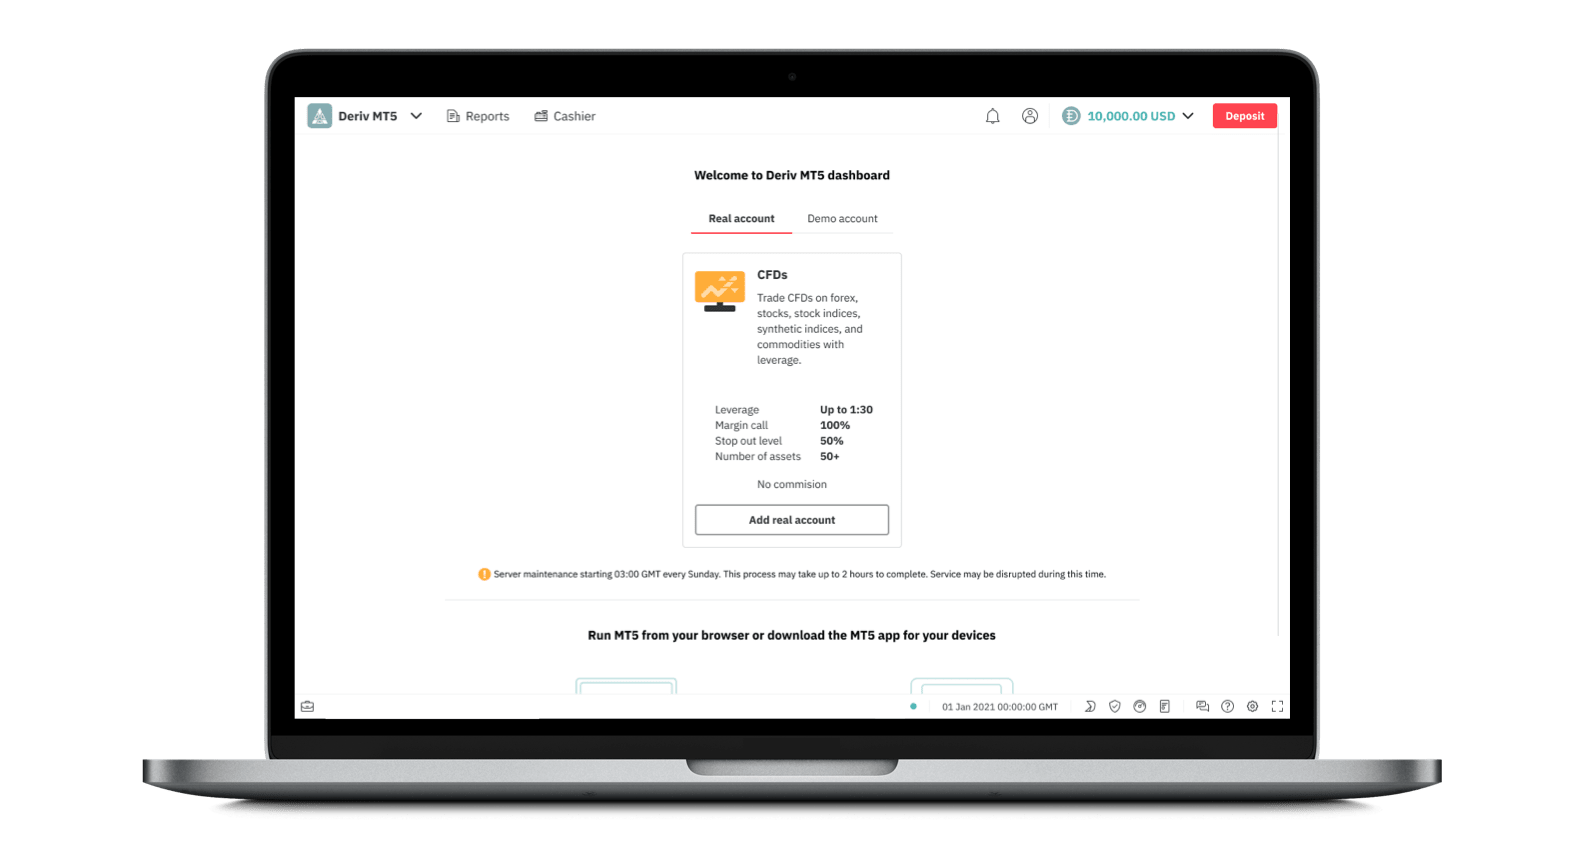
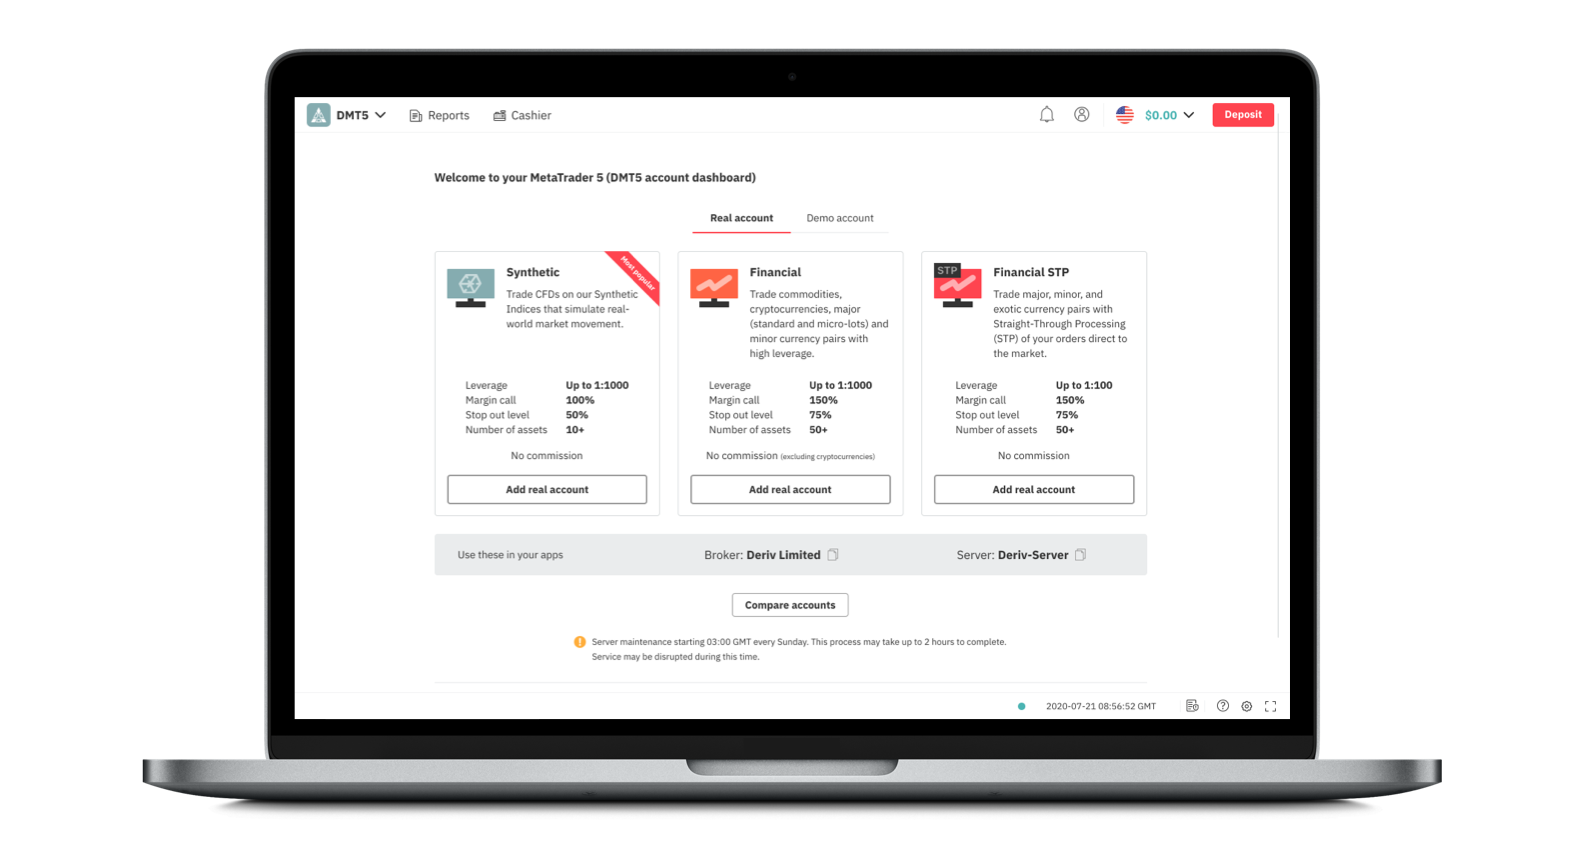
added wrong account image and crash boom hotfixes

diff --git a/src/pages/markets/components/sections/_market_instruments.js b/src/pages/markets/components/sections/_market_instruments.js
@@ -9,77 +9,93 @@ import {
     Row,
     Title,
 } from '../../static/style/_markets-style'
+import { useBrowserResize } from '../../../../components/hooks/use-browser-resize'
 
-const MarketInstruments = ({ market_content }) => (
-    <MarketsWrapper>
-        {market_content.content?.map((content, index) =>
-            market_content.has_global_accordion || content.details ? (
-                <MarketsAccordion
-                    key={index}
-                    renderTitle={() => (
-                        <Row is_accordion_row={true}>
-                            {market_content.template == 2 ? (
-                                <>
-                                    <Col full_width={true}>
-                                        <Title>{content.title}</Title>
-                                    </Col>
-                                    <LatestMarketsList
-                                        has_right_border={true}
-                                        col={content.col}
-                                        tablet_col={content.tablet_col}
-                                        mobile_col={content.mobile_col}
-                                        padding={content.padding}
-                                        flex={content.flex}
-                                        gap={content.gap}
-                                        gap_mobile={content.gap_mobile}
-                                    >
-                                        {content.component}
-                                    </LatestMarketsList>
-                                </>
+const MarketInstruments = ({ market_content }) => {
+    const [is_mobile] = useBrowserResize()
+    return (
+        <MarketsWrapper>
+            {market_content.content?.map((content, index) =>
+                market_content.has_global_accordion || content.details ? (
+                    <MarketsAccordion
+                        key={index}
+                        renderTitle={() => (
+                            <Row is_accordion_row={true}>
+                                {market_content.template == 2 ? (
+                                    <>
+                                        <Col full_width={true}>
+                                            {is_mobile && content.mobile_title ? (
+                                                <Title>{content.mobile_title}</Title>
+                                            ) : (
+                                                <Title>{content.title}</Title>
+                                            )}
+                                        </Col>
+                                        <LatestMarketsList
+                                            has_right_border={true}
+                                            col={content.col}
+                                            tablet_col={content.tablet_col}
+                                            mobile_col={content.mobile_col}
+                                            padding={content.padding}
+                                            flex={content.flex}
+                                            gap={content.gap}
+                                            gap_mobile={content.gap_mobile}
+                                        >
+                                            {content.component}
+                                        </LatestMarketsList>
+                                    </>
+                                ) : (
+                                    <>
+                                        <Col>
+                                            {is_mobile && content.mobile_title ? (
+                                                <Title>{content.mobile_title}</Title>
+                                            ) : (
+                                                <Title>{content.title}</Title>
+                                            )}
+                                        </Col>
+                                        <MarketsList has_right_border={true}>
+                                            {content.component}
+                                        </MarketsList>
+                                    </>
+                                )}
+                            </Row>
+                        )}
+                        renderDetails={content.details}
+                        custom_index={content.custom_index}
+                    />
+                ) : (
+                    <Row key={index} mobile_template={content.mobile_template}>
+                        <Col mobile_template={content.mobile_template}>
+                            {is_mobile && content.mobile_title ? (
+                                <Title>{content.mobile_title}</Title>
                             ) : (
-                                <>
-                                    <Col>
-                                        <Title>{content.title}</Title>
-                                    </Col>
-                                    <MarketsList has_right_border={true}>
-                                        {content.component}
-                                    </MarketsList>
-                                </>
+                                <Title>{content.title}</Title>
                             )}
-                        </Row>
-                    )}
-                    renderDetails={content.details}
-                    custom_index={content.custom_index}
-                />
-            ) : (
-                <Row key={index} mobile_template={content.mobile_template}>
-                    <Col mobile_template={content.mobile_template}>
-                        <Title>{content.title}</Title>
-                    </Col>
-                    {market_content.template == 2 ? (
-                        <LatestMarketsList
-                            col={content.col}
-                            tablet_col={content.tablet_col}
-                            mobile_col={content.mobile_col}
-                            padding={content.padding}
-                            flex={content.flex}
-                            gap={content.gap}
-                            mobile_template={content.mobile_template}
-                            gap_mobile={content.gap_mobile}
-                            {...market_content.markets_list}
-                        >
-                            {content.component}
-                        </LatestMarketsList>
-                    ) : (
-                        <MarketsList {...market_content.markets_list}>
-                            {content.component}
-                        </MarketsList>
-                    )}
-                </Row>
-            ),
-        )}
-    </MarketsWrapper>
-)
+                        </Col>
+                        {market_content.template == 2 ? (
+                            <LatestMarketsList
+                                col={content.col}
+                                tablet_col={content.tablet_col}
+                                mobile_col={content.mobile_col}
+                                padding={content.padding}
+                                flex={content.flex}
+                                gap={content.gap}
+                                mobile_template={content.mobile_template}
+                                gap_mobile={content.gap_mobile}
+                                {...market_content.markets_list}
+                            >
+                                {content.component}
+                            </LatestMarketsList>
+                        ) : (
+                            <MarketsList {...market_content.markets_list}>
+                                {content.component}
+                            </MarketsList>
+                        )}
+                    </Row>
+                ),
+            )}
+        </MarketsWrapper>
+    )
+}
 
 MarketInstruments.propTypes = {
     market_content: PropTypes.object,

diff --git a/src/pages/dmt5/_start-trader.js b/src/pages/dmt5/_start-trader.js
@@ -24,6 +24,12 @@ const query = graphql`
         demo_step2_mobile: file(relativePath: { eq: "dmt5/dmt5-demo-step2-mobile.png" }) {
             ...fadeIn
         }
+        demo_step2_eu: file(relativePath: { eq: "dmt5/dmt5-demo-step2-eu.png" }) {
+            ...fadeIn
+        }
+        demo_step2_mobile_eu: file(relativePath: { eq: "dmt5/dmt5-demo-step2-mobile-eu.png" }) {
+            ...fadeIn
+        }
         demo_step3: file(relativePath: { eq: "dmt5/dmt5-demo-step3.png" }) {
             ...fadeIn
         }
@@ -46,6 +52,12 @@ const query = graphql`
             ...fadeIn
         }
         real_step3_mobile: file(relativePath: { eq: "dmt5/dmt5-real-step3-mobile.png" }) {
+            ...fadeIn
+        }
+        real_step3_eu: file(relativePath: { eq: "dmt5/dmt5-real-step3-eu.png" }) {
+            ...fadeIn
+        }
+        real_step3_mobile_eu: file(relativePath: { eq: "dmt5/dmt5-real-step3-mobile-eu.png" }) {
             ...fadeIn
         }
         real_step4: file(relativePath: { eq: "dmt5/dmt5-real-step4.png" }) {
@@ -223,14 +235,29 @@ const StartTrader = () => {
                         <SideTab.Panel
                             label=""
                             description={
-                                <Localize translate_text="Add a Deriv MT5 demo account and choose what you want to trade." />
+                                is_eu_country ? (
+                                    <Localize translate_text="Add a CFDs demo account and choose what you want to trade." />
+                                ) : (
+                                    <Localize translate_text="Add a Deriv MT5 demo account and choose what you want to trade." />
+                                )
                             }
                         >
                             <ImageWrapper>
-                                <QueryImage
-                                    data={data[is_mobile ? 'demo_step2_mobile' : 'demo_step2']}
-                                    alt="demo_step2"
-                                />
+                                {is_eu_country ? (
+                                    <QueryImage
+                                        data={
+                                            data[
+                                                is_mobile ? 'demo_step2_mobile_eu' : 'demo_step2_eu'
+                                            ]
+                                        }
+                                        alt="demo_step2_eu"
+                                    />
+                                ) : (
+                                    <QueryImage
+                                        data={data[is_mobile ? 'demo_step2_mobile' : 'demo_step2']}
+                                        alt="demo_step2"
+                                    />
+                                )}
                             </ImageWrapper>
                         </SideTab.Panel>
                         <SideTab.Panel
@@ -296,15 +323,26 @@ const StartTrader = () => {
                                 is_eu_country ? (
                                     <Localize translate_text="Create a CFDs real account based on your trade preference." />
                                 ) : (
-                                    <Localize translate_text="Create a DMT5 real money account based on your trade preference." />
+                                    <Localize translate_text="Create a Deriv MT5 real money account based on your trade preference." />
                                 )
                             }
                         >
                             <ImageWrapper>
-                                <QueryImage
-                                    data={data[is_mobile ? 'real_step3_mobile' : 'real_step3']}
-                                    alt="real_step3"
-                                />
+                                {is_eu_country ? (
+                                    <QueryImage
+                                        data={
+                                            data[
+                                                is_mobile ? 'real_step3_mobile_eu' : 'real_step3_eu'
+                                            ]
+                                        }
+                                        alt="real_step3"
+                                    />
+                                ) : (
+                                    <QueryImage
+                                        data={data[is_mobile ? 'real_step3_mobile' : 'real_step3']}
+                                        alt="real_step3"
+                                    />
+                                )}
                             </ImageWrapper>
                         </SideTab.Panel>
                         <SideTab.Panel

diff --git a/src/components/hooks/use-browser-resize.js b/src/components/hooks/use-browser-resize.js
@@ -1,0 +1,26 @@
+import { useState, useEffect } from 'react'
+import { isBrowser } from 'common/utility'
+import { size } from 'themes/device'
+
+export const useBrowserResize = () => {
+    const [is_mobile, setMobile] = useState(false)
+    const [width, setWidth] = useState(isBrowser() ? window.innerWidth : 0)
+
+    useEffect(() => {
+        if (!isBrowser()) return false
+        const handleResize = () => setWidth(window.innerWidth)
+        handleResizeWindow()
+        window.addEventListener('resize', handleResize)
+
+        return () => {
+            window.removeEventListener('resize', handleResize)
+            handleResizeWindow()
+        }
+    })
+
+    const handleResizeWindow = () => {
+        setMobile(isBrowser() ? !!(width <= size.tablet) : false)
+    }
+
+    return [is_mobile]
+}

diff --git a/src/pages/markets/static/content/_multipliers.js b/src/pages/markets/static/content/_multipliers.js
@@ -49,6 +49,9 @@ export const synthetic_multiplier = {
         },
         {
             title: <Localize translate_text="Crash/Boom" />,
+            mobile_title: (
+                <Localize translate_text="Crash/<0></0>Boom" components={[<br key={0} />]} />
+            ),
             component: <CrashBoom />,
             details: CrashBoomDetails,
         },
@@ -77,6 +80,9 @@ export const synthetic_multiplier_eu = {
         },
         {
             title: <Localize translate_text="Crash/Boom" />,
+            mobile_title: (
+                <Localize translate_text="Crash/<0></0>Boom" components={[<br key={0} />]} />
+            ),
             component: <CrashBoomEU />,
             details: CrashBoomDetailsEU,
         },

diff --git a/src/pages/markets/static/content/_cfds.js b/src/pages/markets/static/content/_cfds.js
@@ -87,6 +87,9 @@ export const synthetic_cfds = {
         },
         {
             title: <Localize translate_text="Crash/Boom" />,
+            mobile_title: (
+                <Localize translate_text="Crash/<0></0>Boom" components={[<br key={0} />]} />
+            ),
             component: <CrashBoom />,
             details: CrashBoomDetails,
         },
@@ -119,6 +122,9 @@ export const synthetic_cfds_eu = {
         },
         {
             title: <Localize translate_text="Crash/Boom" />,
+            mobile_title: (
+                <Localize translate_text="Crash/<0></0>Boom" components={[<br key={0} />]} />
+            ),
             component: <CrashBoomEU />,
             details: CrashBoomDetailsEU,
         },
